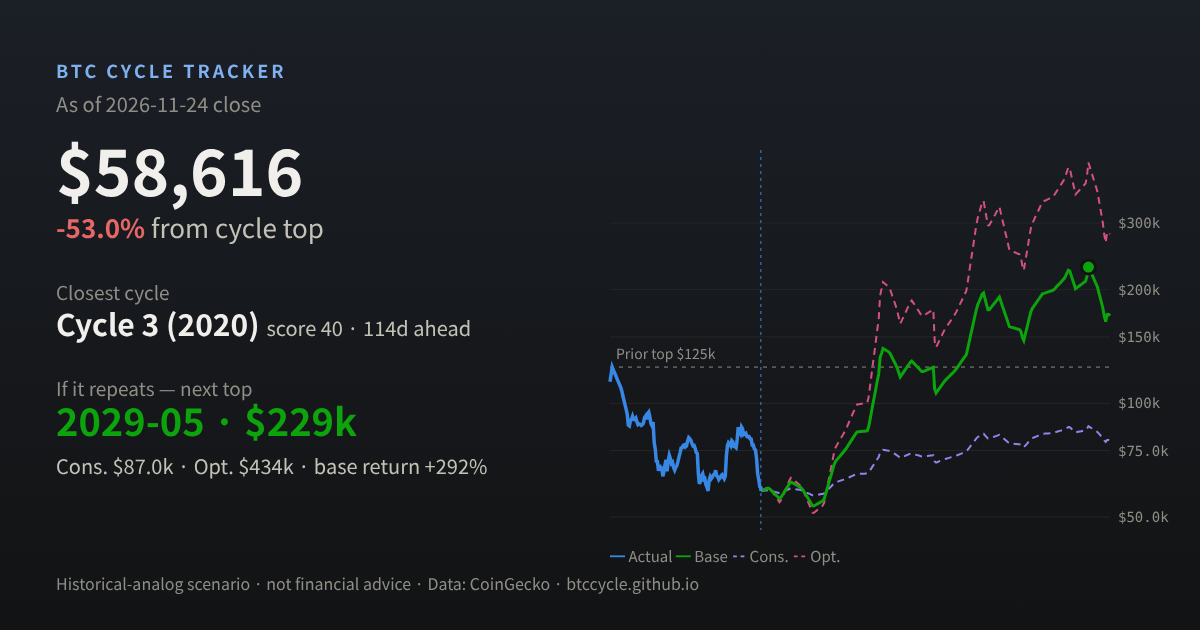
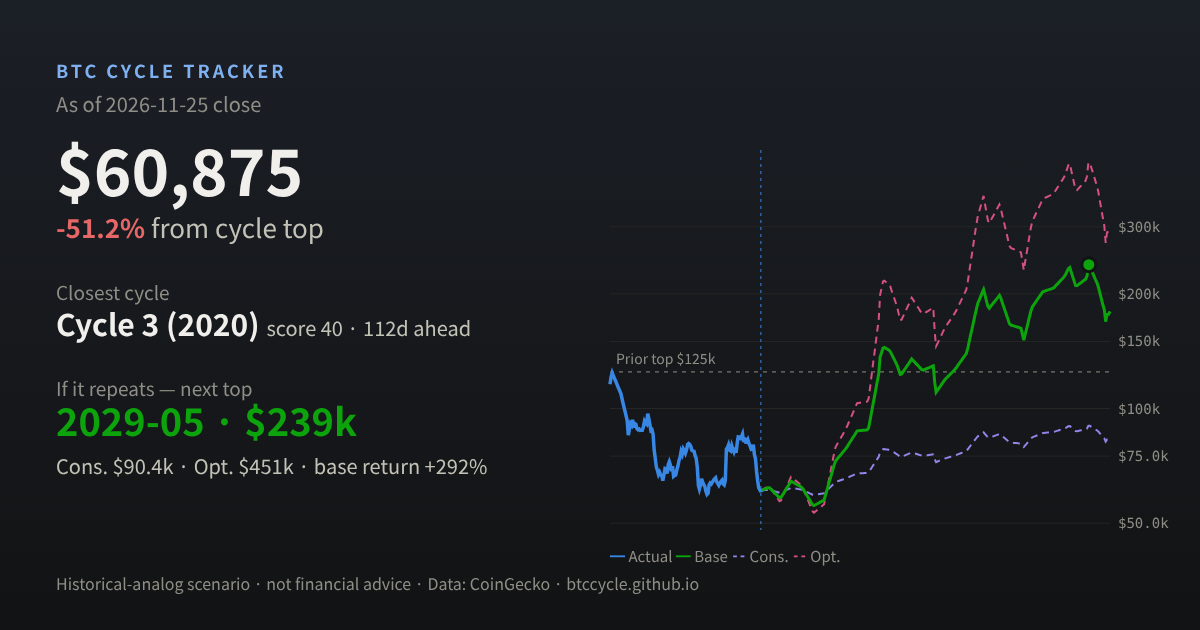
Daily data 2026-11-26

diff --git a/index.html b/index.html
@@ -496,7 +496,7 @@ const NEXT_HALVING_EST = '2028-04-15';
 // CoinGecko get-coin-market-chart snapshot (id=bitcoin; days=365/90/7), taken 2026-11-15 — fallback when the live API is unreachable
 const CG_SNAPSHOT = {"d365":{"startTs":1763251200000,"endTs":1794752830000,"prices":[95380,92903,85088,88256,91324,90360,93429,89227,91987,90253,87720,88092,88490,87192,87867,87575,90614,93650,90552,91201,95593,93344,89454,86625,89212,78647,75628,70273,70175,66259,68779,66427,68026,64074,65891,68816,70868,66043,70417,72934,71220,68424,70529,66330,66691,66888,69002,70645,73022,74297,77126,75858,78275,77367,76297,78512,81437,80678,80482,79069,76959,77550,77016,74340,73820,66727,60960,61670,63532,66293,62897,63255,60990,59953,58566,62554,64001,63193,63747,64717,64796,66521,64318,63882,62820,63465,64263,64856,63409,63031,64686,78318,78974,80268,77658,77297,79822,78283,77262,75590,80874,86597,84378,84449,83576,84743,85540,82564,81795,82156,82020,84082,80049,81274,77521,77385,75775,75267,71372,65197]},"d90":{"startTs":1786996800000,"endTs":1794771080000,"prices":[64241,64166,64250,69679,72643,77342,77181,77065,77394,79458,79157,79069,78706,80329,79292,77513,78157,79316,78670,78698,77241,77155,77700,81056,79671,80045,79912,79750,79093,78511,79586,78405,76879,77037,77317,77099,76767,78986,76548,75699,76320,76533,80014,81286,80276,81071,85822,86180,86528,84226,84393,84569,83927,84142,84443,82630,83038,83583,84296,83936,86620,84543,84856,85293,85751,85771,85722,83713,82638,81686,82374,82745,83093,83869,82365,83278,83370,81564,82309,81961,81626,81594,80814,82202,81448,82727,84627,81810,81670,80908,80348,80557,80449,79704,80825,80451,80203,78147,76872,77554,77983,78334,76781,77573,78405,80354,76006,75694,75922,75727,75191,74609,74312,73551,74002,71690,69507,67133,62612,64937]},"d7":{"startTs":1794168000000,"endTs":1794770510000,"prices":[75849,75687,74406,74740,75092,75195,74781,74415,74256,74482,74217,74316,74847,74659,75465,75007,74609,74803,74804,75182,75267,75004,74792,74479,74740,74566,74635,74448,74338,74312,73704,73210,72840,73416,73390,73704,73625,73721,73528,73569,73695,73860,73551,73658,73716,73949,73826,73739,73935,74218,74444,74338,74612,73849,73974,73618,73726,73723,73520,73447,73515,73418,72856,72826,72430,71617,71695,71690,71626,71388,71341,71372,70887,70188,68891,68062,69030,68653,69041,69287,69142,69507,68807,68640,68931,68994,68823,68208,68314,68234,67622,66691,67160,67327,66942,67363,67218,66955,66787,65673,65287,65518,65722,64832,63500,64120,62612,64899,64794,64506,64438,65073,65321,65345,65467,65425,64719,64676,64689,64968]},"asOf":1794770510000};
 // Daily UTC closes accumulated by scripts/add-closes.mjs: [utcDay, close]
-const CG_CLOSES = [[20765,74740],[20766,75267],[20767,73721],[20768,73974],[20769,71372],[20770,68314],[20771,64120.24],[20772,65305.28],[20773,64840.87],[20774,64889.41],[20775,62996.68],[20776,61921.36],[20777,58817.93],[20778,60121.3],[20779,61172.02],[20780,61227.55],[20781,59758.92]];
+const CG_CLOSES = [[20765,74740],[20766,75267],[20767,73721],[20768,73974],[20769,71372],[20770,68314],[20771,64120.24],[20772,65305.28],[20773,64840.87],[20774,64889.41],[20775,62996.68],[20776,61921.36],[20777,58817.93],[20778,60121.3],[20779,61172.02],[20780,61227.55],[20781,59758.92],[20782,60374.15]];
 const COMP_COLOR = '#a3a29a';
 const cname = c => `Cycle ${c.id.slice(1)}`;
 
